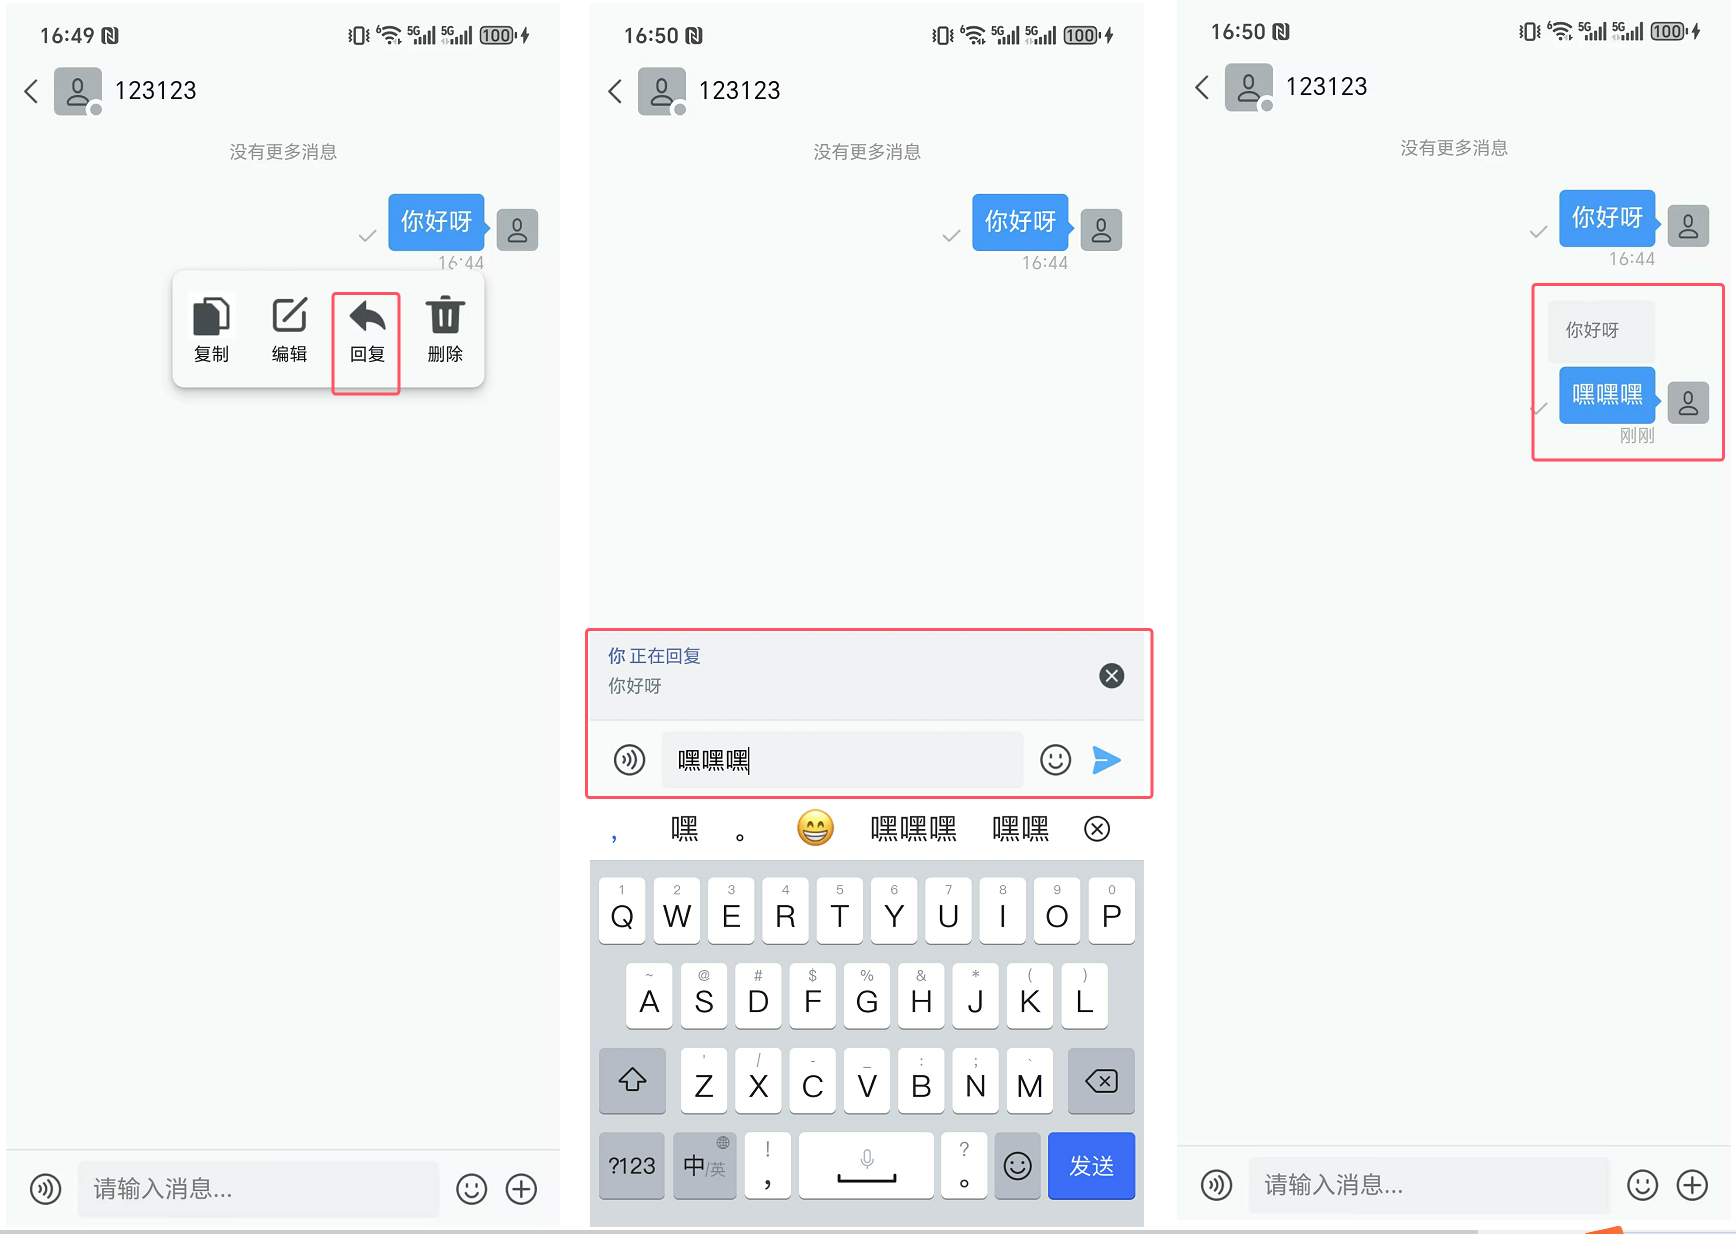
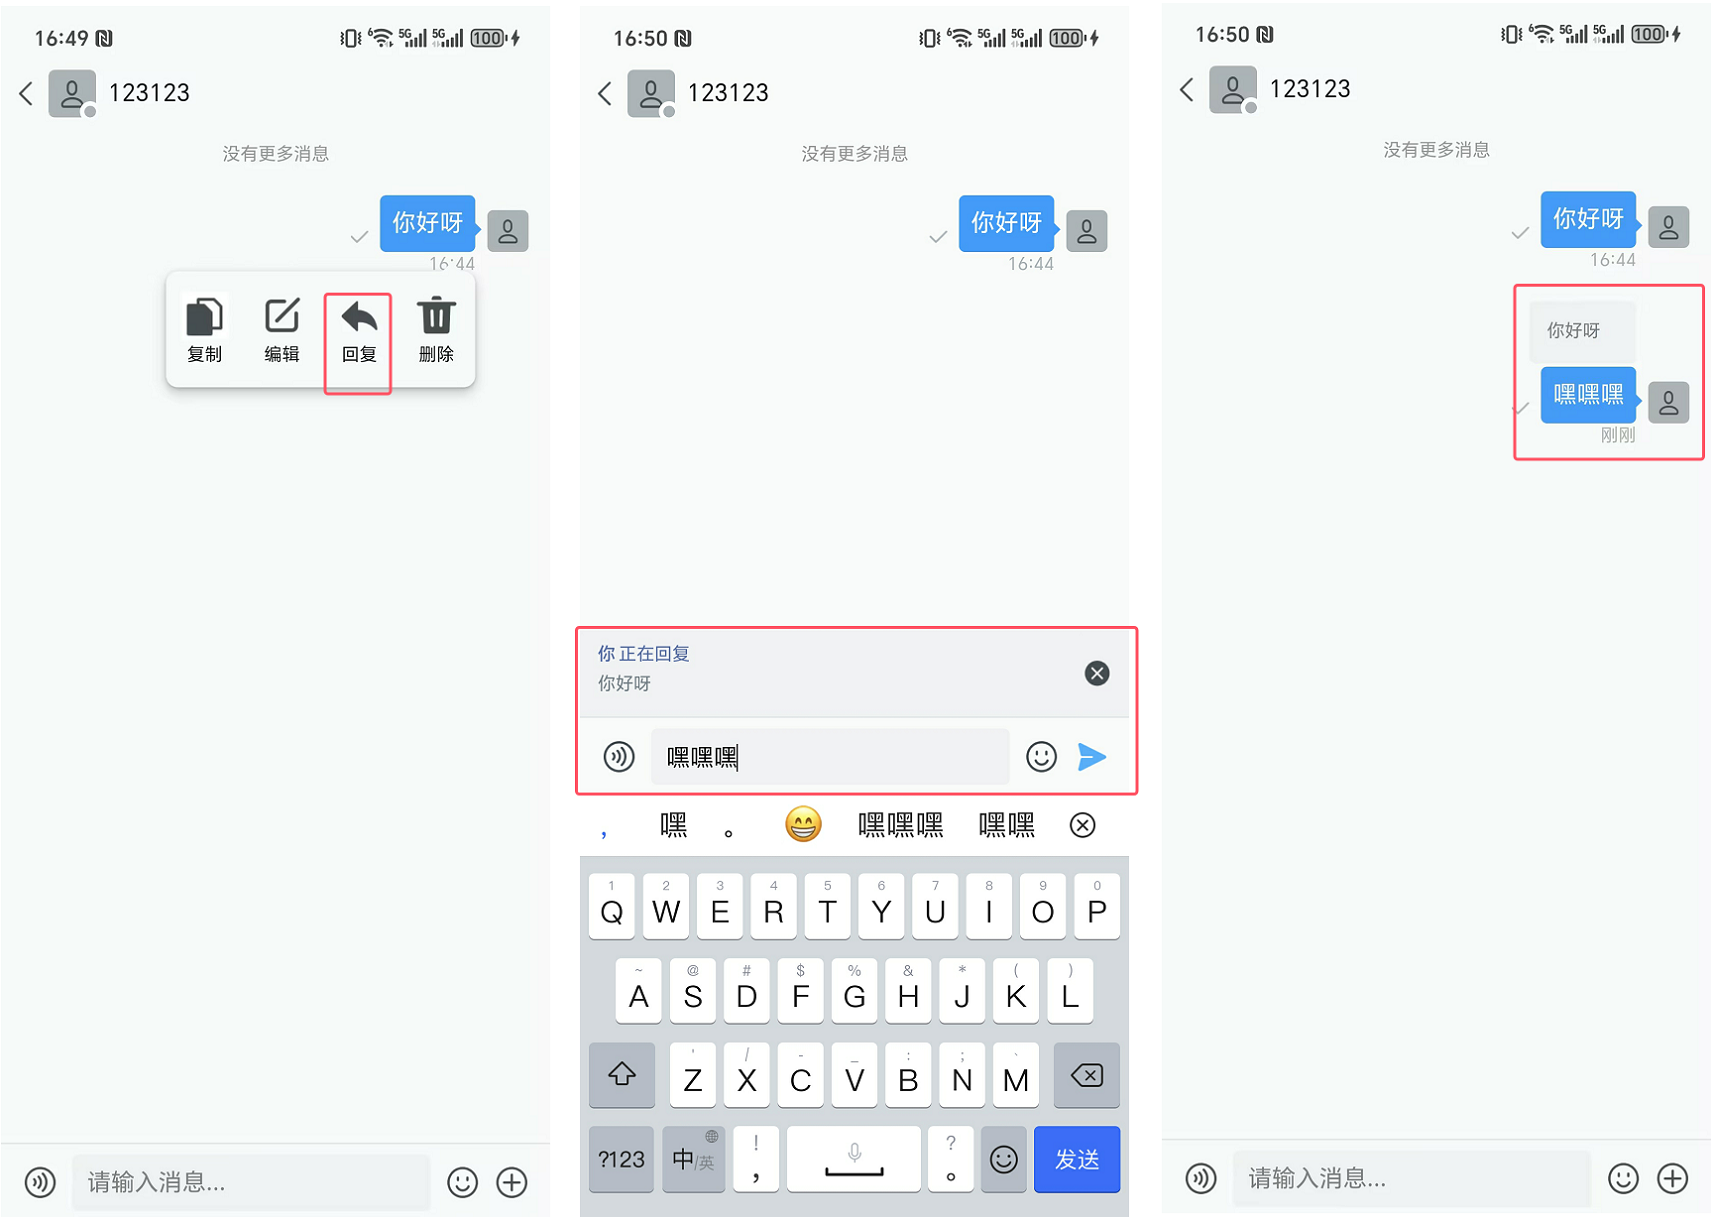
modify

diff --git a/docs/uikit/chatuikit/uniapp/chatfeature_common.md b/docs/uikit/chatuikit/uniapp/chatfeature_common.md
@@ -38,13 +38,13 @@
 
 已发送回执用于告知消息发送者，其发送的消息已经成功发送到服务器、接收方以及发送失败。
 
-![img](/images/uikit/chatuikit/uniapp/message_receipt_delivery.png) 
+![img](/images/uikit/chatuikit/uniapp/message_receipt_delivery.png  =350x750) 
 
 ## 已读回执
 
 已读回执用于告知消息发送者，接收者已经阅读了其发送的消息。
 
-![img](/images/uikit/chatuikit/uniapp/message_receipt_read.png) 
+![img](/images/uikit/chatuikit/uniapp/message_receipt_read.png  =350x750) 
 
 ## 语音消息
 

diff --git a/docs/uikit/chatuikit/uniapp/chatuikit_overview.md b/docs/uikit/chatuikit/uniapp/chatuikit_overview.md
@@ -73,8 +73,7 @@
 `ChatUIKit/modules/Conversation` 提供会话列表容器。
 
 <ImageGallery>
-  <ImageItem src="/images/uikit/chatuikit/android/conversation_longpress.png" title="会话长按操作" />
-  <ImageItem src="/images/uikit/chatuikit/android/conversation_operation.png" title="会话操作" />
+  <ImageItem src="/images/uikit/chatuikit/uniapp/conversation_swipe_left.png" title="会话左滑操作" />
 </ImageGallery>
 
 ### 通讯录页面功能

diff --git a/docs/uikit/chatuikit/uniapp/chatfeature_message.md b/docs/uikit/chatuikit/uniapp/chatfeature_message.md
@@ -31,7 +31,7 @@
 - `ChatUIKitExtendMessageReplyView`：底部输入框组件上方展示的引用消息自定义 View。
 - `ChatUIKitMessageReplyController`：控制引用功能的显示、隐藏、跳转等逻辑。
 
-![img](/images/uikit/chatuikit/feature/message/message_reply.png) 
+![img](/images/uikit/chatuikit/uniapp/message_reply.png) 
 
 #### 如何使用
 
